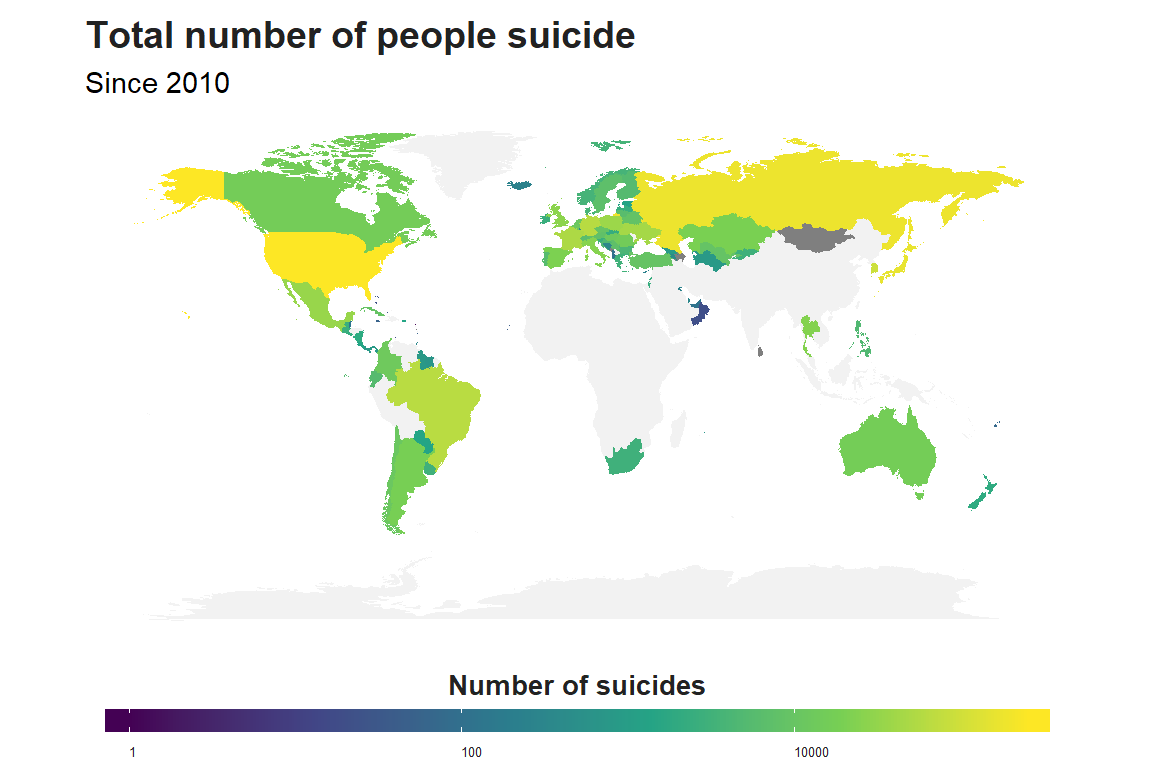
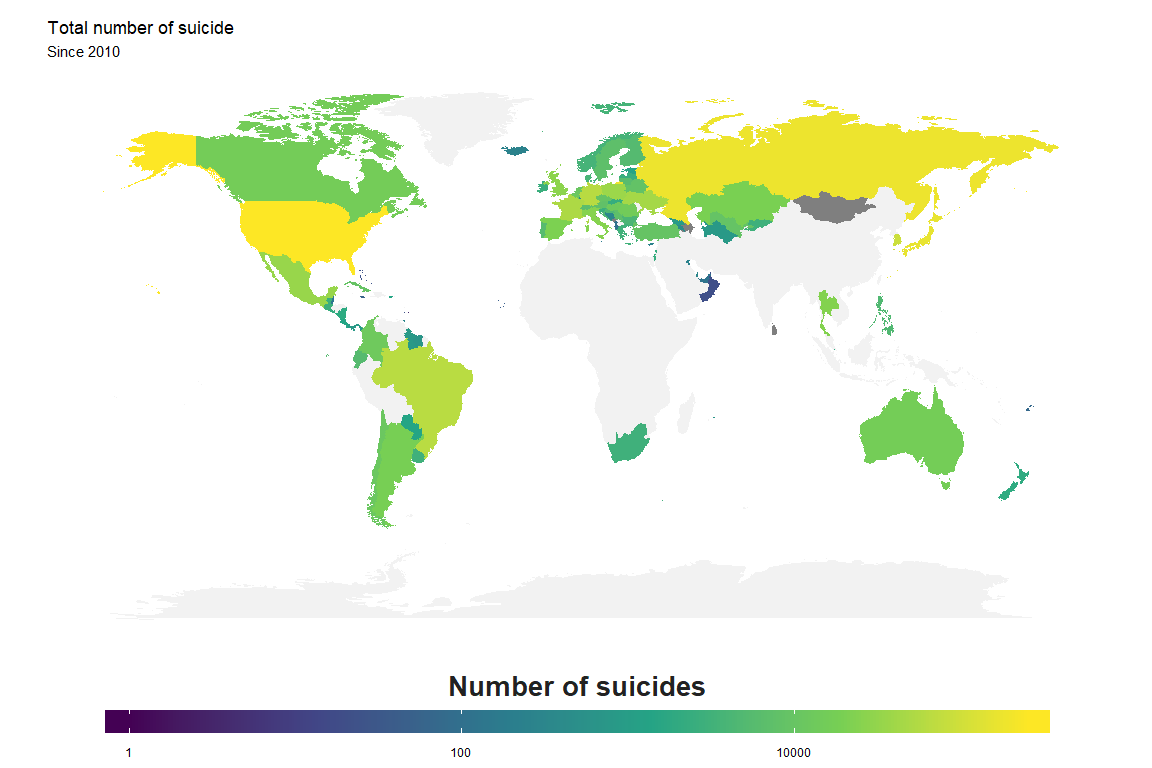
Pic format

diff --git a/README.md b/README.md
@@ -259,15 +259,15 @@ Plot on map
                                                   direction = "horizontal",
                                                   nbin = 10)) +
       labs(title = "Missing data map", subtitle = "Since 1985") +
-      theme(legend.position = c(0,.1),
-            legend.justification = "left",
+      theme(legend.position = c(0.5,.1),
+            legend.justification = "center",
             legend.key.width = unit(3,"cm"),
             panel.grid = element_blank(),
             axis.text = element_blank(),
             axis.text.x = element_blank(),
             axis.text.y = element_blank(), 
             legend.title.align = 0.5,
-            legend.title = element_text(face = "bold"))
+            legend.title = element_text(size = 20, face = "bold", color = "#222222"))
 
 ![](README_files/figure-markdown_strict/unnamed-chunk-14-1.png)
 
@@ -542,7 +542,7 @@ Prepare data
 From 2010
 ---------
 
-Total number of people suicide since 2010
+Total number of suicide since 2010
 
     worldmap + data %>% filter(year >= 2010 & year < 2016) %>%
       group_by(country) %>% 
@@ -554,7 +554,7 @@ Total number of people suicide since 2010
                            trans = "log10",
                            guide = guide_colorbar(title.position = "top", 
                                                   direction = "horizontal")) +
-      labs(title = "Total number of people suicide", subtitle = "Since 2010") +
+      labs(title = "Total number of suicide", subtitle = "Since 2010") +
       theme(legend.position = "bottom",
             legend.key.width = unit(5,"cm"),
             legend.title = element_text(size = 20, face = "bold", color = "#222222"),
@@ -568,7 +568,7 @@ Total number of people suicide since 2010
 
 ![](README_files/figure-markdown_strict/unnamed-chunk-28-1.png)
 
-### Average rate of people suicide since 2010
+### Average rate of suicide since 2010
 
     worldmap + rate %>% filter(year >= 2010 & year < 2016) %>%
       group_by(country) %>% summarise(n = mean(suicides_rate, na.rm = T)) %>% filter(!is.na(n)) %>% 
@@ -577,7 +577,7 @@ Total number of people suicide since 2010
       scale_fill_viridis_c(name = "Average number of suicides",
                            guide = guide_colorbar(title.position = "top", 
                                                   direction = "horizontal")) +
-      labs(title = "Average number of people suicide", subtitle = "Since 2010") +
+      labs(title = "Average rate of suicide", subtitle = "Since 2010") +
       theme(legend.position = "bottom",
             legend.key.width = unit(5,"cm"),
             legend.title = element_text(size = 20, face = "bold", color = "#222222"),
